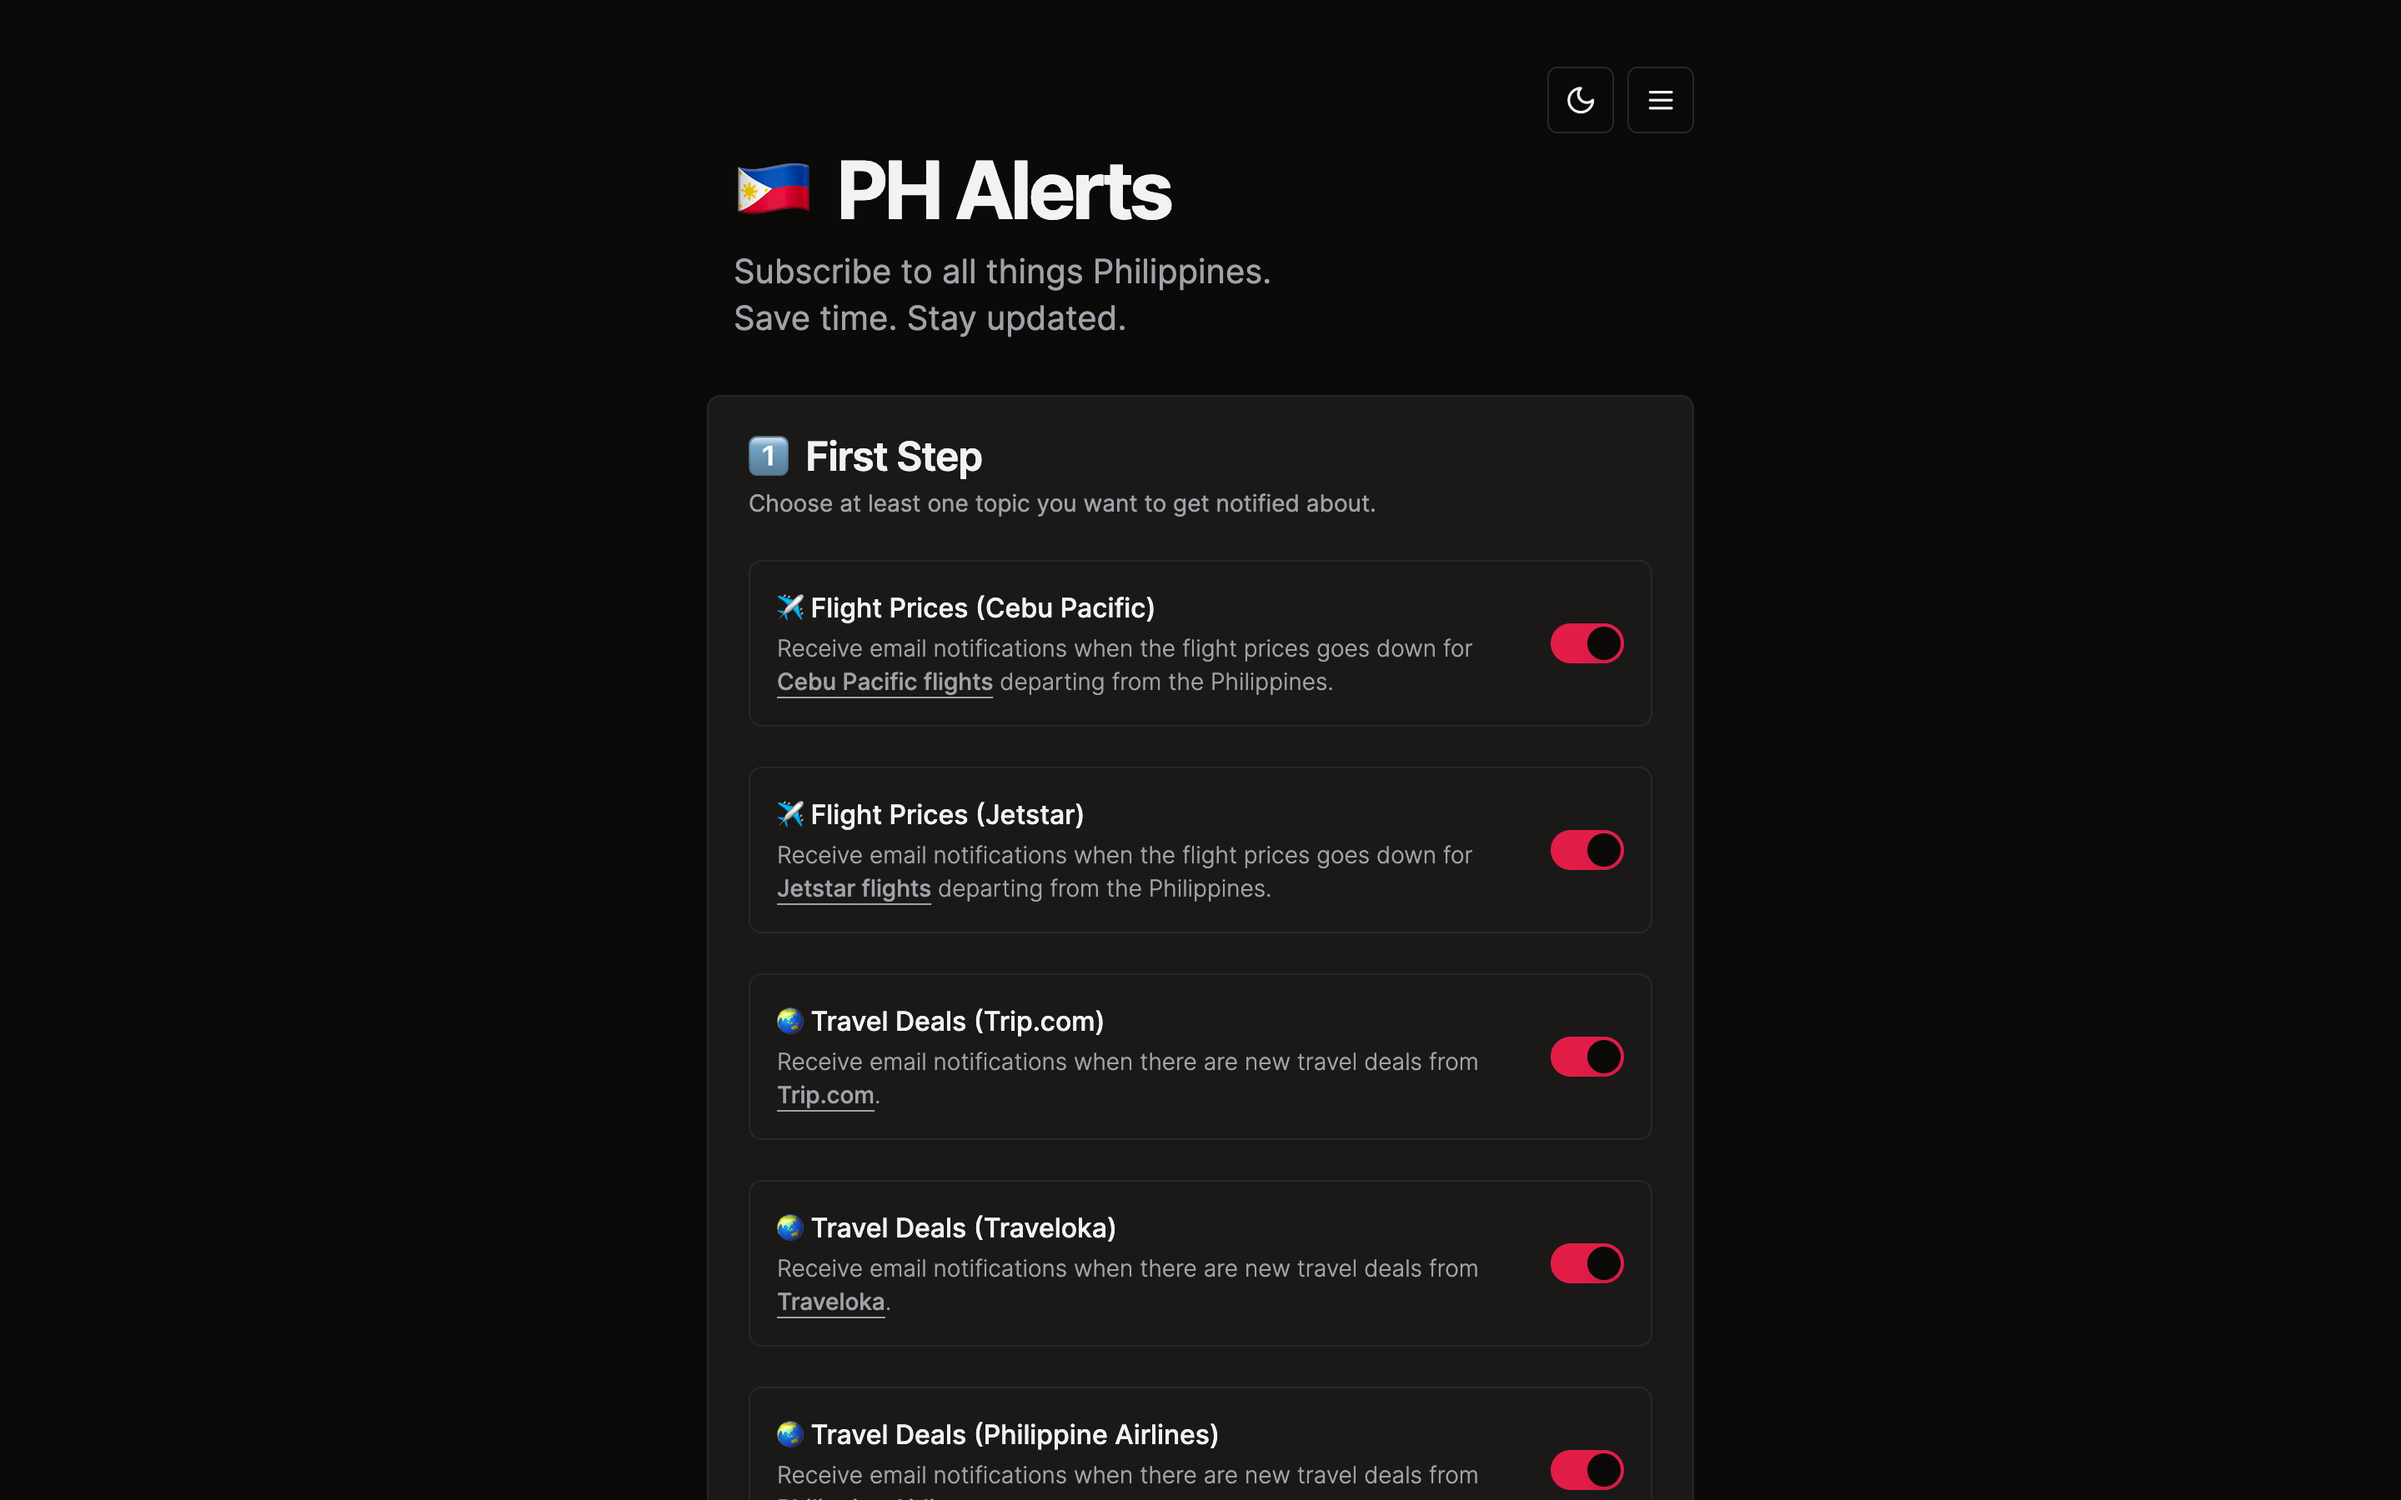
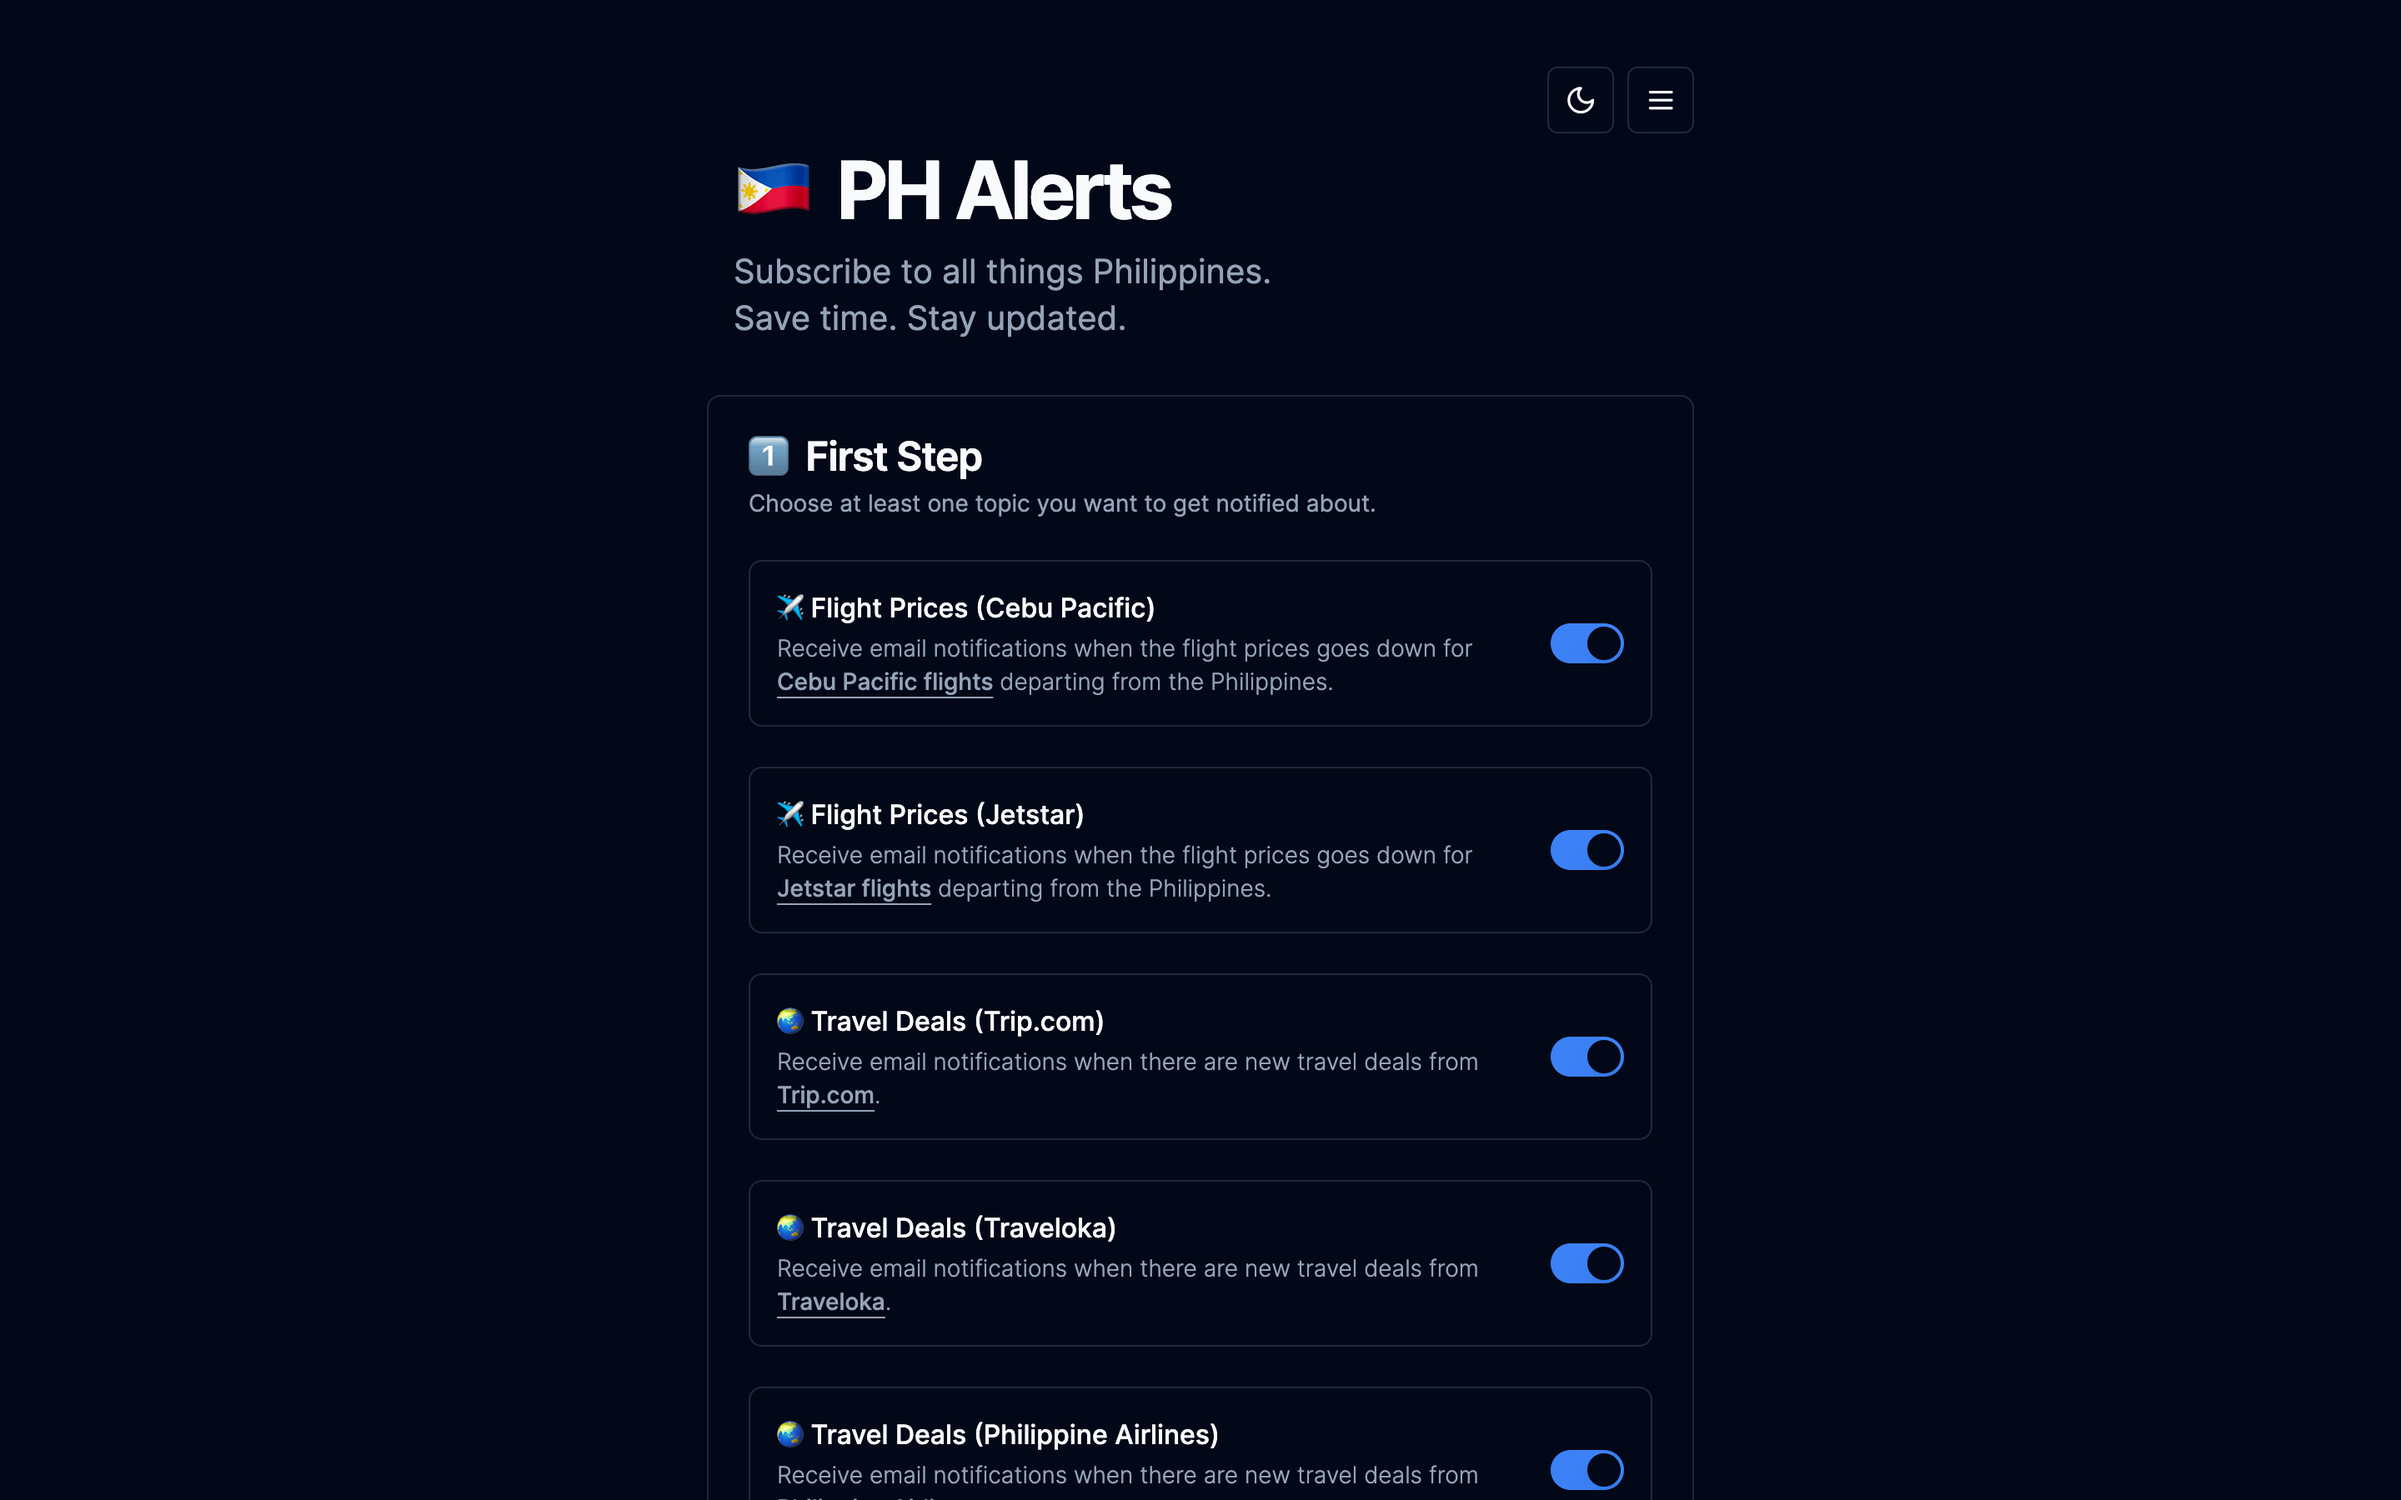
update theme

Changed region(s): [[0.2812, 0.2489, 0.7188, 1.0]]

diff --git a/app/globals.css b/app/globals.css
@@ -5,47 +5,47 @@
 @layer base {
   :root {
     --background: 0 0% 100%;
-    --foreground: 240 10% 3.9%;
+    --foreground: 222.2 84% 4.9%;
     --card: 0 0% 100%;
-    --card-foreground: 240 10% 3.9%;
+    --card-foreground: 222.2 84% 4.9%;
     --popover: 0 0% 100%;
-    --popover-foreground: 240 10% 3.9%;
-    --primary: 346.8 77.2% 49.8%;
-    --primary-foreground: 355.7 100% 97.3%;
-    --secondary: 240 4.8% 95.9%;
-    --secondary-foreground: 240 5.9% 10%;
-    --muted: 240 4.8% 95.9%;
-    --muted-foreground: 240 3.8% 46.1%;
-    --accent: 240 4.8% 95.9%;
-    --accent-foreground: 240 5.9% 10%;
+    --popover-foreground: 222.2 84% 4.9%;
+    --primary: 221.2 83.2% 53.3%;
+    --primary-foreground: 210 40% 98%;
+    --secondary: 210 40% 96.1%;
+    --secondary-foreground: 222.2 47.4% 11.2%;
+    --muted: 210 40% 96.1%;
+    --muted-foreground: 215.4 16.3% 46.9%;
+    --accent: 210 40% 96.1%;
+    --accent-foreground: 222.2 47.4% 11.2%;
     --destructive: 0 84.2% 60.2%;
-    --destructive-foreground: 0 0% 98%;
-    --border: 240 5.9% 90%;
-    --input: 240 5.9% 90%;
-    --ring: 346.8 77.2% 49.8%;
+    --destructive-foreground: 210 40% 98%;
+    --border: 214.3 31.8% 91.4%;
+    --input: 214.3 31.8% 91.4%;
+    --ring: 221.2 83.2% 53.3%;
     --radius: 0.5rem;
   }
 
   .dark {
-    --background: 20 14.3% 4.1%;
-    --foreground: 0 0% 95%;
-    --card: 24 9.8% 10%;
-    --card-foreground: 0 0% 95%;
-    --popover: 0 0% 9%;
-    --popover-foreground: 0 0% 95%;
-    --primary: 346.8 77.2% 49.8%;
-    --primary-foreground: 355.7 100% 97.3%;
-    --secondary: 240 3.7% 15.9%;
-    --secondary-foreground: 0 0% 98%;
-    --muted: 0 0% 15%;
-    --muted-foreground: 240 5% 64.9%;
-    --accent: 12 6.5% 15.1%;
-    --accent-foreground: 0 0% 98%;
+    --background: 222.2 84% 4.9%;
+    --foreground: 210 40% 98%;
+    --card: 222.2 84% 4.9%;
+    --card-foreground: 210 40% 98%;
+    --popover: 222.2 84% 4.9%;
+    --popover-foreground: 210 40% 98%;
+    --primary: 217.2 91.2% 59.8%;
+    --primary-foreground: 222.2 47.4% 11.2%;
+    --secondary: 217.2 32.6% 17.5%;
+    --secondary-foreground: 210 40% 98%;
+    --muted: 217.2 32.6% 17.5%;
+    --muted-foreground: 215 20.2% 65.1%;
+    --accent: 217.2 32.6% 17.5%;
+    --accent-foreground: 210 40% 98%;
     --destructive: 0 62.8% 30.6%;
-    --destructive-foreground: 0 85.7% 97.3%;
-    --border: 240 3.7% 15.9%;
-    --input: 240 3.7% 15.9%;
-    --ring: 346.8 77.2% 49.8%;
+    --destructive-foreground: 210 40% 98%;
+    --border: 217.2 32.6% 17.5%;
+    --input: 217.2 32.6% 17.5%;
+    --ring: 224.3 76.3% 48%;
   }
 }
 
